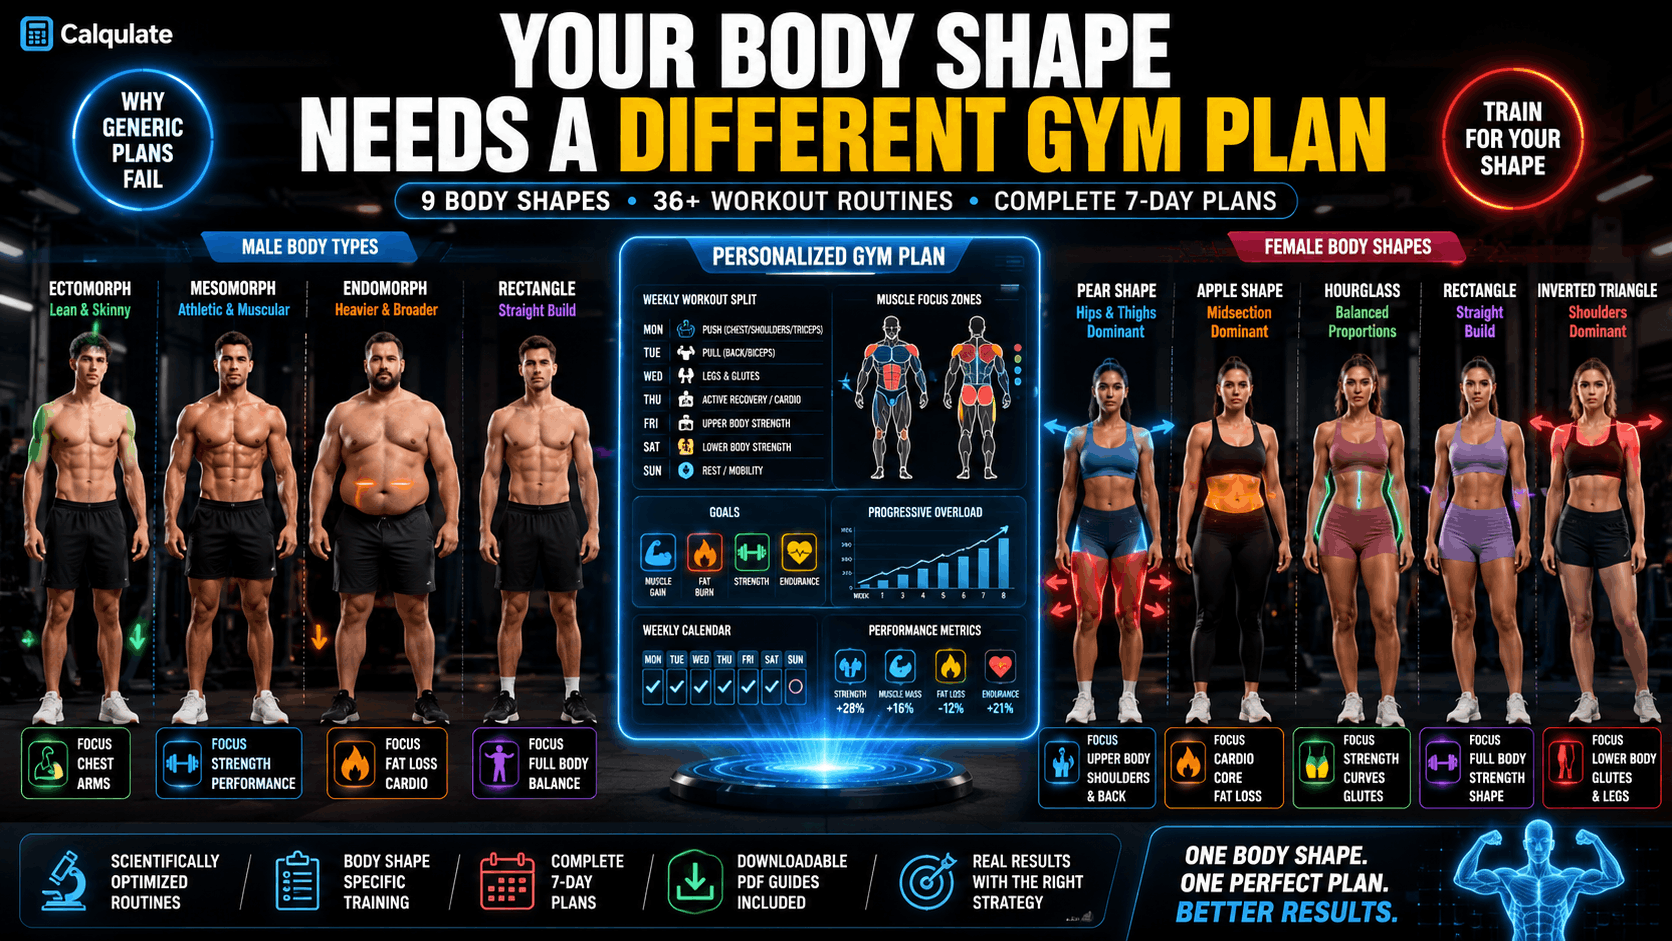
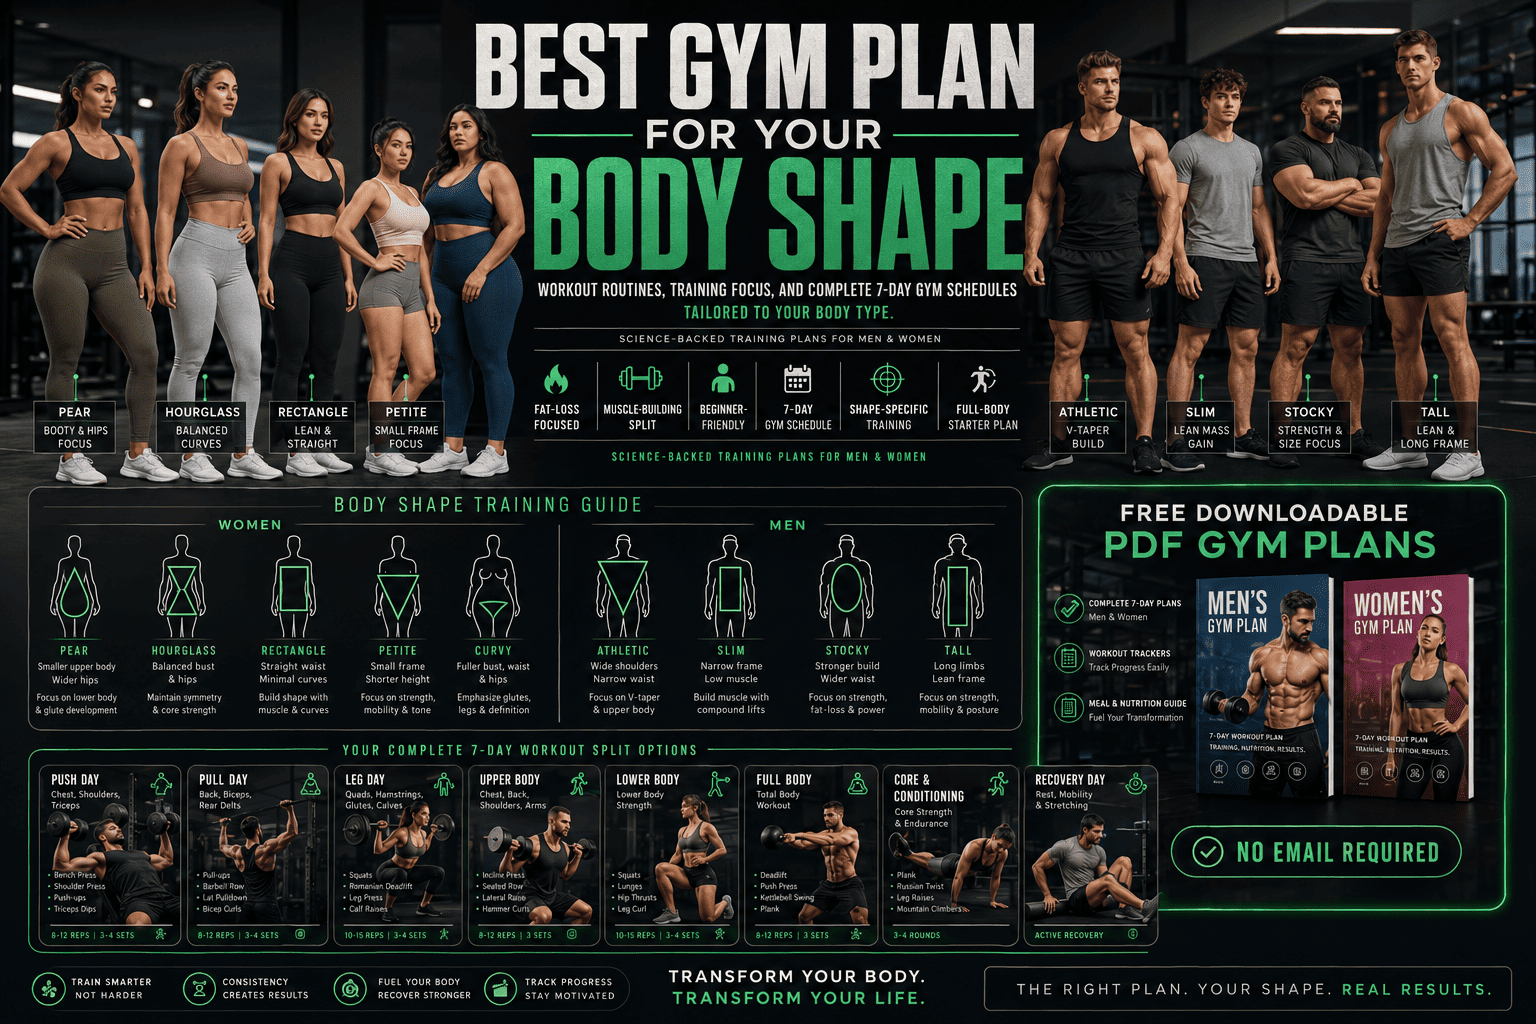
blogs

diff --git a/components/gym-plan/GymPlanSelector.tsx b/components/gym-plan/GymPlanSelector.tsx
@@ -70,97 +70,103 @@ export default function GymPlanSelector({ gender }: Props) {
       </div>
 
       {/* ── ACTIVE SHAPE HERO CARD ─────────────────────── */}
-      <div className="mb-8 rounded-2xl border border-gray-200 bg-white p-5 md:p-7">
-        <div className="flex flex-col gap-6 md:flex-row md:items-start md:justify-between">
-          <div className="flex-1">
-            <span className="inline-block rounded-full bg-green-100 px-3 py-1 text-xs font-bold uppercase tracking-wider text-green-800">
-              {gender === "male" ? "Male Body Type" : "Female Body Shape"}
-            </span>
-            <h3 className="mt-3 text-2xl font-bold text-black md:text-3xl">
-              {activeShape.name}
-            </h3>
-            <p className="mt-2 text-gray-700 leading-relaxed">{activeShape.longDesc}</p>
-
-            <div className="mt-5 grid grid-cols-1 gap-5 sm:grid-cols-2">
-              <div>
-                <p className="mb-2 text-xs font-bold uppercase tracking-wider text-gray-500">
-                  Key Characteristics
-                </p>
-                <ul className="space-y-1.5">
-                  {activeShape.characteristics.map((c) => (
-                    <li key={c} className="flex items-start gap-2 text-sm text-gray-700">
-                      <span className="mt-1 h-1.5 w-1.5 shrink-0 rounded-full bg-green-600" />
-                      {c}
-                    </li>
-                  ))}
-                </ul>
-              </div>
-              <div>
-                <p className="mb-2 text-xs font-bold uppercase tracking-wider text-gray-500">
-                  Training Goals
-                </p>
-                <ul className="space-y-1.5">
-                  {activeShape.goals.map((g) => (
-                    <li key={g} className="flex items-start gap-2 text-sm text-gray-700">
-                      <span className="mt-0.5 shrink-0 font-bold text-green-700">OK</span>
-                      {g}
-                    </li>
-                  ))}
-                </ul>
-              </div>
-            </div>
-
-            {/* Key Focus Areas */}
-            <div className="mt-5">
-              <p className="mb-2 text-xs font-bold uppercase tracking-wider text-gray-500">
-                Priority Muscle Groups
-              </p>
-              <div className="flex flex-wrap gap-2">
-                {activeShape.keyFocusAreas.map((area) => (
-                  <span
-                    key={area}
-                    className="rounded-full bg-green-100 px-3 py-1 text-xs font-semibold text-green-800"
-                  >
-                    {area}
-                  </span>
-                ))}
-              </div>
-            </div>
+      <div className="mb-8 rounded-2xl border border-gray-200 bg-white">
+        {/* Stats bar */}
+        <div className="grid grid-cols-3 divide-x divide-gray-200 border-b border-gray-200">
+          <div className="p-4 md:p-5 text-center">
+            <p className="text-2xl font-bold text-black md:text-3xl">{activeShape.routines.length}</p>
+            <p className="text-xs font-semibold uppercase tracking-wider text-gray-500 mt-0.5">Workout Routines</p>
           </div>
-
-          {/* Stats mini panel */}
-          <div className="grid grid-cols-2 gap-3 sm:min-w-[180px] md:grid-cols-1">
-            <div className="rounded-xl border border-gray-200 bg-gray-50 p-4 text-center">
-              <p className="text-2xl font-bold text-black">{activeShape.routines.length}</p>
-              <p className="text-xs font-semibold uppercase tracking-wider text-gray-500">Routines</p>
-            </div>
-            <div className="rounded-xl border border-gray-200 bg-gray-50 p-4 text-center">
-              <p className="text-2xl font-bold text-black">7</p>
-              <p className="text-xs font-semibold uppercase tracking-wider text-gray-500">Day Plan</p>
-            </div>
-            <div className="col-span-2 rounded-xl border border-gray-200 bg-gray-50 p-4 md:col-span-1">
-              <p className="text-xs font-semibold uppercase tracking-wider text-gray-500 mb-1">
-                Nutrition Tip
-              </p>
-              <p className="text-xs text-gray-700 leading-relaxed">{activeShape.nutritionTip}</p>
-            </div>
+          <div className="p-4 md:p-5 text-center">
+            <p className="text-2xl font-bold text-black md:text-3xl">7</p>
+            <p className="text-xs font-semibold uppercase tracking-wider text-gray-500 mt-0.5">Day Plan</p>
+          </div>
+          <div className="p-4 md:p-5 text-center">
+            <p className="text-2xl font-bold text-black md:text-3xl">{activeShape.routines.reduce((acc, r) => acc + r.exercises.length, 0)}</p>
+            <p className="text-xs font-semibold uppercase tracking-wider text-gray-500 mt-0.5">Total Exercises</p>
           </div>
         </div>
 
-        {/* Avoid section */}
-        <div className="mt-6 rounded-xl border border-red-100 bg-red-50 p-4">
-          <p className="mb-3 text-xs font-bold uppercase tracking-wider text-red-700">
-            What to Avoid for This Body Shape
-          </p>
-          <div className="grid gap-2 sm:grid-cols-2">
-            {activeShape.avoid.map((item) => (
-              <div key={item} className="flex items-start gap-2">
-                <span className="mt-0.5 flex h-5 w-5 shrink-0 items-center justify-center rounded-full bg-red-500 text-xs font-bold text-white">
-                  X
+        <div className="p-5 md:p-7">
+          <span className="inline-block rounded-full bg-green-100 px-3 py-1 text-xs font-bold uppercase tracking-wider text-green-800">
+            {gender === "male" ? "Male Body Type" : "Female Body Shape"}
+          </span>
+          <h3 className="mt-3 text-2xl font-bold text-black md:text-3xl">
+            {activeShape.name}
+          </h3>
+          <p className="mt-2 text-gray-700 leading-relaxed">{activeShape.longDesc}</p>
+
+          <div className="mt-6 grid grid-cols-1 gap-6 sm:grid-cols-2">
+            <div>
+              <p className="mb-3 text-xs font-bold uppercase tracking-wider text-gray-500">
+                Key Characteristics
+              </p>
+              <ul className="space-y-2">
+                {activeShape.characteristics.map((c) => (
+                  <li key={c} className="flex items-start gap-2 text-sm text-gray-700">
+                    <span className="mt-1.5 h-1.5 w-1.5 shrink-0 rounded-full bg-green-600" />
+                    {c}
+                  </li>
+                ))}
+              </ul>
+            </div>
+            <div>
+              <p className="mb-3 text-xs font-bold uppercase tracking-wider text-gray-500">
+                Training Goals
+              </p>
+              <ul className="space-y-2">
+                {activeShape.goals.map((g) => (
+                  <li key={g} className="flex items-start gap-2 text-sm text-gray-700">
+                    <span className="mt-0.5 flex h-5 w-5 shrink-0 items-center justify-center rounded-full bg-green-700 text-xs font-bold text-white">
+                      ✓
+                    </span>
+                    {g}
+                  </li>
+                ))}
+              </ul>
+            </div>
+          </div>
+
+          {/* Key Focus Areas */}
+          <div className="mt-6">
+            <p className="mb-2 text-xs font-bold uppercase tracking-wider text-gray-500">
+              Priority Muscle Groups
+            </p>
+            <div className="flex flex-wrap gap-2">
+              {activeShape.keyFocusAreas.map((area) => (
+                <span
+                  key={area}
+                  className="rounded-full bg-green-100 px-3 py-1 text-xs font-semibold text-green-800"
+                >
+                  {area}
                 </span>
-                <span className="text-sm text-gray-700">{item}</span>
-              </div>
-            ))}
+              ))}
+            </div>
+          </div>
+
+          {/* Nutrition Tip */}
+          <div className="mt-6 rounded-xl border border-green-200 bg-green-50 p-4">
+            <p className="text-xs font-bold uppercase tracking-wider text-green-700 mb-1">
+              Nutrition Tip
+            </p>
+            <p className="text-sm text-gray-700 leading-relaxed">{activeShape.nutritionTip}</p>
+          </div>
+
+          {/* Avoid section */}
+          <div className="mt-6 rounded-xl border border-red-100 bg-red-50 p-4">
+            <p className="mb-3 text-xs font-bold uppercase tracking-wider text-red-700">
+              What to Avoid for This Body Shape
+            </p>
+            <div className="grid gap-2 sm:grid-cols-2">
+              {activeShape.avoid.map((item) => (
+                <div key={item} className="flex items-start gap-2">
+                  <span className="mt-0.5 flex h-5 w-5 shrink-0 items-center justify-center rounded-full bg-red-500 text-xs font-bold text-white">
+                    X
+                  </span>
+                  <span className="text-sm text-gray-700">{item}</span>
+                </div>
+              ))}
+            </div>
           </div>
         </div>
       </div>

diff --git a/lib/blog/jeans-fit-data.ts b/lib/blog/jeans-fit-data.ts
@@ -84,7 +84,7 @@ export const jeansCards: JeansCard[] = [
     styleTip: "Tuck in a fitted top or pair with a cropped jacket to highlight the waistline.",
     goals: ["define-waist", "balance-hips", "office-casual", "daily-comfort"],
     badge: "most-versatile",
-    image: "/blog/jeans/high-rise-straight.jpg",
+    image: "/blogs/jeans/high-rise-straight.jpg",
     imageAlt: "Woman wearing classic high-rise straight-leg blue jeans",
   },
   {
@@ -99,7 +99,7 @@ export const jeansCards: JeansCard[] = [
       "The subtle flare from the knee down balances wider hips and thighs, and a higher rise smooths the waist.",
     styleTip: "Wear with heeled boots or platform sneakers so the hem skims the floor.",
     goals: ["balance-hips", "look-taller", "office-casual"],
-    image: "/blog/jeans/bootcut.jpg",
+    image: "/blogs/jeans/bootcut.jpg",
     imageAlt: "Dark wash bootcut jeans flaring from the knee",
   },
   {
@@ -114,7 +114,7 @@ export const jeansCards: JeansCard[] = [
       "A wider leg opening hides hip and thigh fullness, while the high rise nips in at the waist for shape.",
     styleTip: "Pair with a tucked-in tee or fitted knit to keep the silhouette balanced.",
     goals: ["balance-hips", "look-taller", "weekend"],
-    image: "/blog/jeans/wide-leg.jpg",
+    image: "/blogs/jeans/wide-leg.jpg",
     imageAlt: "Wide-leg high-rise jeans styled with a tucked-in top",
   },
   {
@@ -129,7 +129,7 @@ export const jeansCards: JeansCard[] = [
       "Hugs your natural curves through the hip and thigh and locks in at the waist — no gapping at the back.",
     styleTip: "Layer with a longer top or blazer for the office. Cuff once at the ankle for a relaxed weekend look.",
     goals: ["define-waist", "slim-legs", "daily-comfort"],
-    image: "/blog/jeans/skinny-high-rise.jpg",
+    image: "/blogs/jeans/skinny-high-rise.jpg",
     imageAlt: "High-rise stretch skinny jeans in dark indigo",
   },
   {
@@ -144,7 +144,7 @@ export const jeansCards: JeansCard[] = [
       "The high waistband and slightly tapered leg add visual curves at the hips and shorten the leg in a flattering way.",
     styleTip: "Try a half-tuck and a belt to mark the smallest part of your waist.",
     goals: ["add-curves", "define-waist", "weekend"],
-    image: "/blog/jeans/mom-jeans.jpg",
+    image: "/blogs/jeans/mom-jeans.jpg",
     imageAlt: "Classic rigid mom jeans with a half-tucked t-shirt",
   },
   {
@@ -159,7 +159,7 @@ export const jeansCards: JeansCard[] = [
       "The dramatic flare from the thigh down creates curves you may not naturally have and elongates the leg.",
     styleTip: "Always pair with a slim or tucked top so the lower half is the focus.",
     goals: ["add-curves", "look-taller", "weekend"],
-    image: "/blog/jeans/flared.jpg",
+    image: "/blogs/jeans/flared.jpg",
     imageAlt: "Retro 70s style flared jeans in mid wash",
   },
   {
@@ -175,7 +175,7 @@ export const jeansCards: JeansCard[] = [
     styleTip: "Look for the word 'curvy' on the label — it's a fit, not a size.",
     goals: ["define-waist", "plus-size-comfort", "daily-comfort"],
     badge: "comfort-pick",
-    image: "/blog/jeans/curvy-fit.jpg",
+    image: "/blogs/jeans/curvy-fit.jpg",
     imageAlt: "Curvy-fit stretch jeans designed for fuller hips",
   },
   {
@@ -190,7 +190,7 @@ export const jeansCards: JeansCard[] = [
       "Ends right at or above the ankle, which keeps the leg from looking shortened by extra fabric pooling on top of the shoe.",
     styleTip: "Show a sliver of ankle and pair with low-vamp flats or pointed mules to look taller.",
     goals: ["look-taller", "office-casual"],
-    image: "/blog/jeans/cropped-ankle.jpg",
+    image: "/blogs/jeans/cropped-ankle.jpg",
     imageAlt: "Cropped ankle jeans with pointed flats",
   },
   {
@@ -205,7 +205,7 @@ export const jeansCards: JeansCard[] = [
       "Close to the leg without being painted on — adds shape to slimmer legs and creates a clean modern line.",
     styleTip: "Avoid extra-skinny if your legs are very thin; aim for slim, not compressed.",
     goals: ["daily-comfort", "office-casual"],
-    image: "/blog/jeans/slim-fit-men.jpg",
+    image: "/blogs/jeans/slim-fit-men.jpg",
     imageAlt: "Men's slim-fit dark wash jeans with white sneakers",
   },
   {
@@ -221,7 +221,7 @@ export const jeansCards: JeansCard[] = [
     styleTip: "Pair with low-top sneakers and a fitted tee to keep the proportions clean.",
     goals: ["daily-comfort", "weekend"],
     badge: "comfort-pick",
-    image: "/blog/jeans/athletic-tapered.jpg",
+    image: "/blogs/jeans/athletic-tapered.jpg",
     imageAlt: "Men's athletic tapered jeans with extra room in the thigh",
   },
   {
@@ -237,7 +237,7 @@ export const jeansCards: JeansCard[] = [
     styleTip: "Choose a darker wash to keep the look smart-casual instead of work-wear.",
     goals: ["daily-comfort", "plus-size-comfort", "travel"],
     badge: "comfort-pick",
-    image: "/blog/jeans/relaxed-straight-men.jpg",
+    image: "/blogs/jeans/relaxed-straight-men.jpg",
     imageAlt: "Men's relaxed straight jeans in dark indigo",
   },
   {
@@ -253,7 +253,7 @@ export const jeansCards: JeansCard[] = [
     styleTip: "If you're shorter, choose a 30 or 32 inch inseam to avoid stacking at the ankle.",
     goals: ["daily-comfort", "office-casual", "weekend"],
     badge: "most-versatile",
-    image: "/blog/jeans/straight-leg-men.jpg",
+    image: "/blogs/jeans/straight-leg-men.jpg",
     imageAlt: "Classic straight-leg men's jeans in mid wash",
   },
   {
@@ -268,7 +268,7 @@ export const jeansCards: JeansCard[] = [
       "Slim through the thigh, straight from the knee — a modern alternative to skinny that flatters most builds.",
     styleTip: "Skip the ankle stacking. A clean break at the shoe makes you look taller.",
     goals: ["look-taller", "office-casual", "daily-comfort"],
-    image: "/blog/jeans/slim-straight-men.jpg",
+    image: "/blogs/jeans/slim-straight-men.jpg",
     imageAlt: "Slim straight jeans for men with a clean ankle break",
   },
 ];

diff --git a/app/blog/[slug]/page.tsx b/app/blog/[slug]/page.tsx
@@ -2,6 +2,8 @@
 import { notFound } from "next/navigation";
 import type { Metadata } from "next";
 import { blogs, getBlogBySlug, getRelatedBlogs } from "@/lib/blog/blogs-data";
+import { Header } from "@/components/layout/header";
+import { Footer } from "@/components/layout/footer";
 import FemaleBodyShapesBlog from "@/components/blog/FemaleBodyShapesBlog";
 import BestDressesPearShapeBlog from "@/components/blog/BestDressesPearShapeBlog";
 import BestJeansBodyShapeBlog from "@/components/blog/BestJeansBodyShapeBlog";
@@ -69,9 +71,13 @@ export default function BlogSlugPage({ params }: Props) {
   };
 
   return (
-    <>
-      {renderContent()}
-      <RelatedBlogs blogs={related} />
-    </>
+    <div className="min-h-screen flex flex-col bg-white">
+      <Header />
+      <main className="flex-1">
+        {renderContent()}
+        <RelatedBlogs blogs={related} />
+      </main>
+      <Footer />
+    </div>
   );
 }

diff --git a/components/blog/FindYourFaceShapeBlog.tsx b/components/blog/FindYourFaceShapeBlog.tsx
@@ -2,11 +2,11 @@
 
 "use client";
 import Link from "next/link";
-import Image from "next/image";
 import type { Blog } from "@/lib/blog/blogs-data";
 import { faceShapeGuides, faqs } from "@/lib/blog/face-shape-data";
 import FaceShapeCalculator from "@/components/face-shape/FaceShapeCalculator";
 import FaceShapeLookbookPdfButton from "@/components/face-shape/FaceShapeLookbookPdfButton";
+import { ClickableImage } from "@/components/ui/image-lightbox";
 
 interface Props {
   blog: Blog;
@@ -98,7 +98,7 @@ export default function FindYourFaceShapeBlog({ blog }: Props) {
           </div>
 
           <div className="relative aspect-[4/3] overflow-hidden rounded-3xl bg-white shadow-xl ring-1 ring-slate-200">
-            <Image
+            <ClickableImage
               src={blog.featuredImage}
               alt={blog.title}
               fill
@@ -585,11 +585,12 @@ function FaceShapeBlock({
     >
       <div className="flex flex-col gap-6 md:flex-row">
         {/* Image side */}
-        <div className="relative aspect-square w-full overflow-hidden rounded-xl bg-emerald-50 md:w-2/5">
-          <Image
+        <div className="md:w-2/5 self-start">
+          <ClickableImage
             src={`/blog/face-shape/shape-${guide.id}.jpg`}
             alt={`${guide.label} — illustration and styling guide`}
             fill
+            containerClassName="relative aspect-[3/4] w-full overflow-hidden rounded-xl bg-emerald-50"
             className="object-cover"
             sizes="(max-width: 768px) 100vw, 320px"
           />